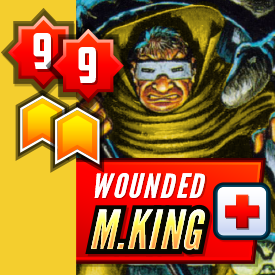
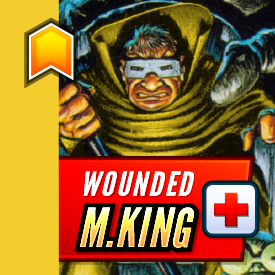
MOLEMEN: roll back token, but increase capture rewards and make boss more fluid

diff --git a/server/classes/factions/Molemen.js b/server/classes/factions/Molemen.js
@@ -14,10 +14,10 @@ class Molemen extends Faction {
         };
 
         this.capturedRewards = [
-            { ap : 1, maxEnergy : 1, resources: 2 },
             { ap : 1, cardDraw : 1, resources: 2 },
-            { ap : 1, maxEnergy : 1, resources: 2 },
-            { ap : 2, cardDraw : 1, resources: 2 },
+            { ap : 1, cardDraw : 1, resources: 2 },
+            { ap : 1, cardDraw : 1, resources: 3 },
+            { ap : 2, resources: 3 },
         ];
 
         //data
@@ -43,7 +43,7 @@ class Molemen extends Faction {
                 type : 'dig',
                 cost : 0,
                 resource: 1,
-                description: "Draw two action cards, then discard a card from your hand. Place a tunnel marker in the area matching that card’s TARGET.",
+                description: "Draw an action card, then discard a card from your hand. Place a tunnel marker in the area matching that card’s TARGET.",
                 req : "This token may always be activated"
             }
         };
@@ -61,8 +61,8 @@ class Molemen extends Faction {
                 name: "The Mole King",
                 type: 'champion',
                 basic: false,
-                influence: 2,
-                attack: [9,9],
+                influence: 1,
+                attack: [],
                 cost: 1,
                 killed : false,
                 selected : false,
@@ -122,7 +122,7 @@ class Molemen extends Faction {
     async activateDigToken( args ){
 
         // draw card
-        this.drawCards(2, true );
+        this.drawCards(1, true );
 
         // discard card
         const response = await this.prompt('discard-card', {
